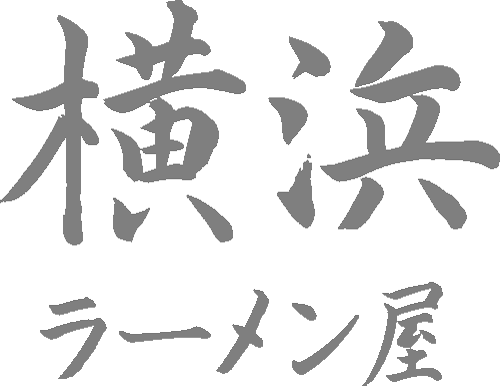
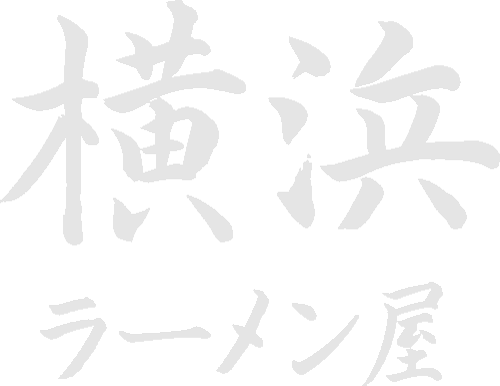
added bg imge to about
added and style BG image into the about section

diff --git a/assets/css/3-modules/_fadein.scss b/assets/css/3-modules/_fadein.scss
@@ -9,6 +9,8 @@
 
   @include clearfix;
   background: $base-background-color;
+  background-image: url("../img/Yokohama_jap_font.png");
+  background-size: cover;
   border: 1px solid silver;
   border-radius: $base-border-radius;
   box-shadow: 0 2px 2px transparentize(black, 0.8);

diff --git a/_site/assets/css/main.css b/_site/assets/css/main.css
@@ -673,6 +673,8 @@ hr {
 
 .fade-in-element {
   background: #fff;
+  background-image: url("../img/Yokohama_jap_font.png");
+  background-size: cover;
   border: 1px solid silver;
   border-radius: 3px;
   box-shadow: 0 2px 2px rgba(0, 0, 0, 0.2);

diff --git a/assets/css/main.css b/assets/css/main.css
@@ -673,6 +673,8 @@ hr {
 
 .fade-in-element {
   background: #fff;
+  background-image: url("../img/Yokohama_jap_font.png");
+  background-size: cover;
   border: 1px solid silver;
   border-radius: 3px;
   box-shadow: 0 2px 2px rgba(0, 0, 0, 0.2);
